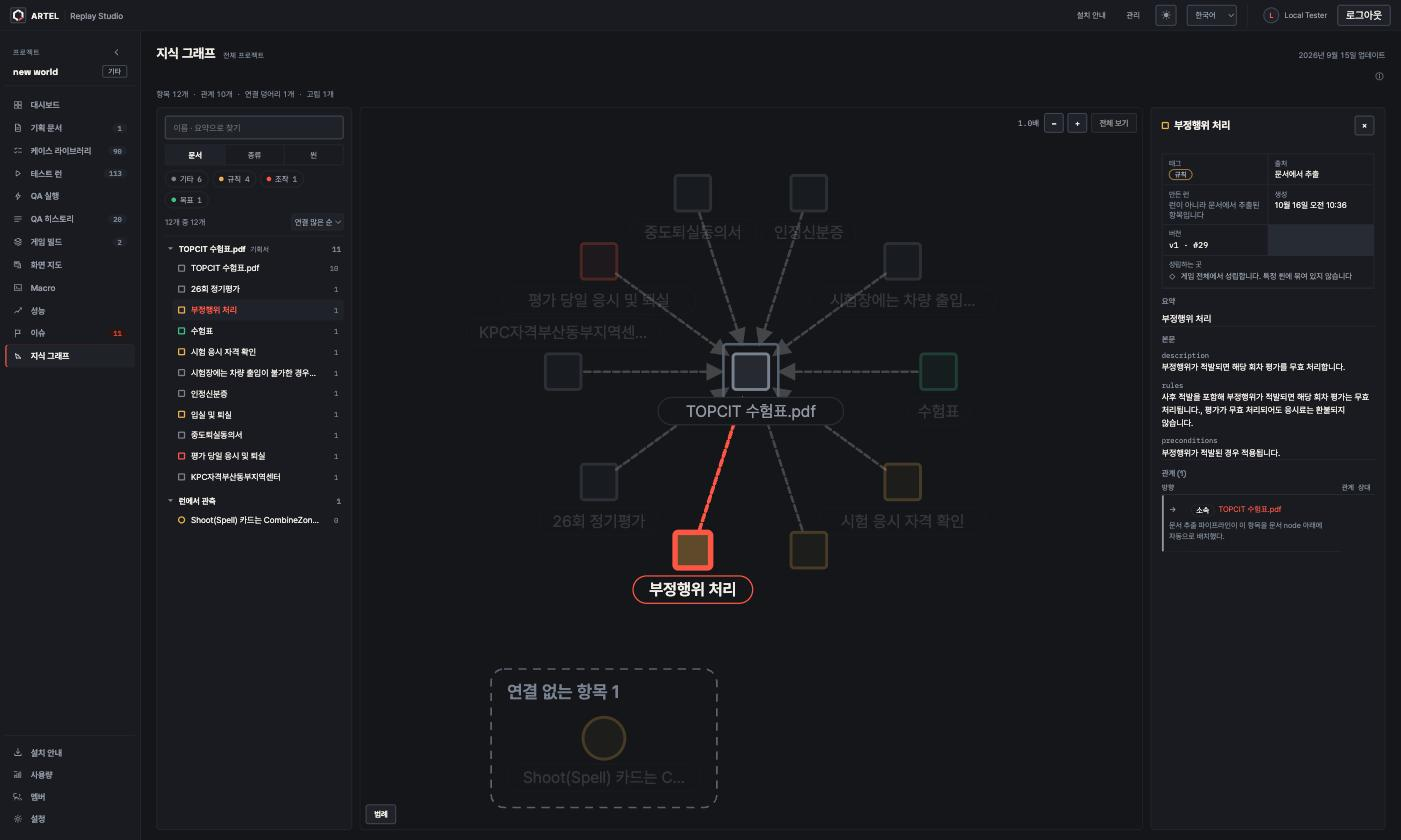
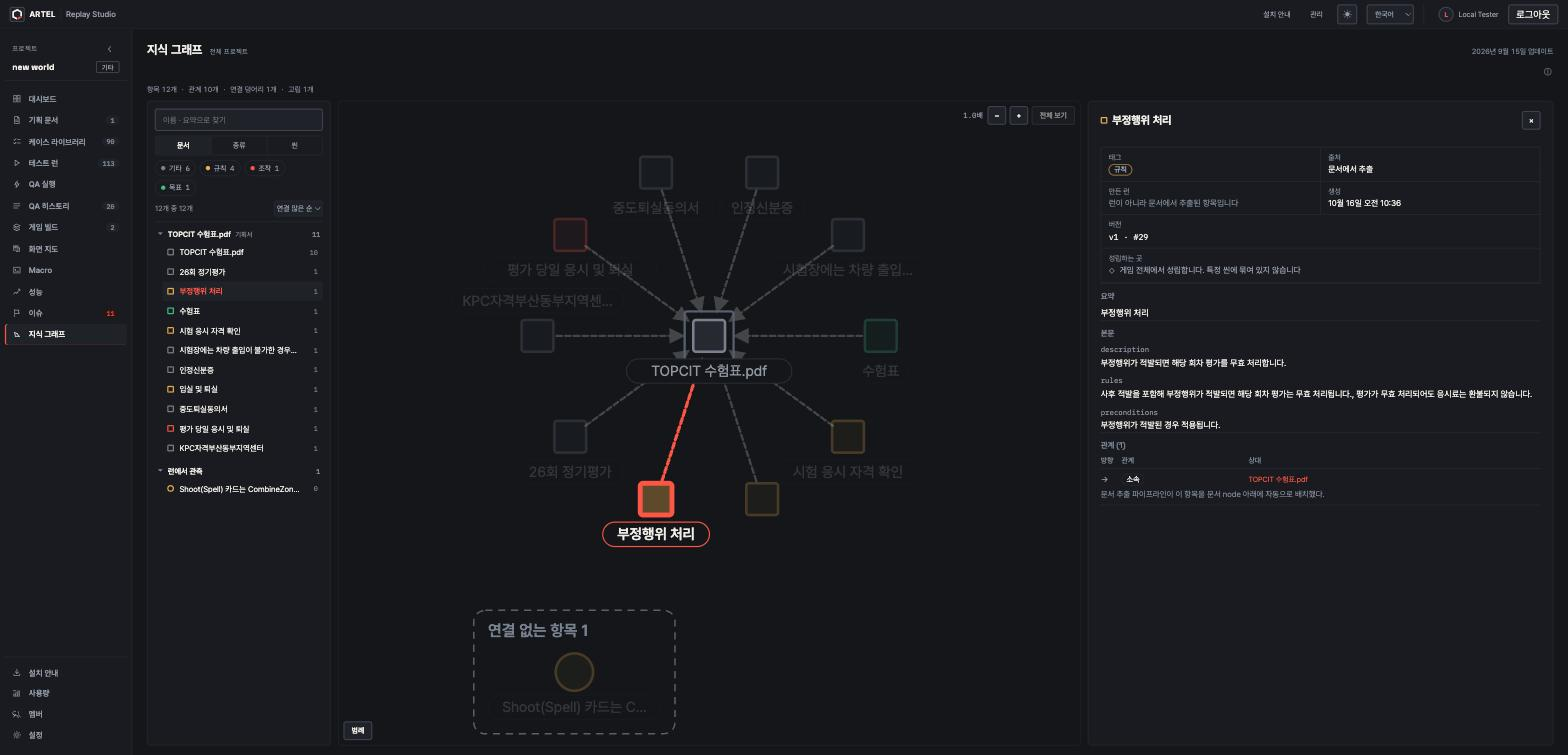
fix(knowledge): 항목을 고르면 오른쪽 상세 칸을 넓히고 글자를 키운다
상세가 360px 칸에 11~12px 글자라 작게 보였다. 고르면 칸이 창 폭의 약 1/3(460~760px)로 넓어지고, 고른 것이
없을 때 개요는 그대로 360px 다. 요약 14.5px · 본문 14px · 사실 표 13.5px · 관계 표 13.5px 로 한 단계씩 키운다.

ARTEL-1190

diff --git a/src/knowledge/knowledge.css b/src/knowledge/knowledge.css
@@ -14,6 +14,7 @@
 .kg-workspace {
   display: grid;
   grid-template-columns: 300px minmax(0, 1fr) 360px;
+  transition: grid-template-columns 180ms var(--ease-standard);
   gap: var(--space-3);
   align-items: stretch;
   height: 680px;
@@ -22,6 +23,16 @@
   min-width: 0;
   min-height: 0;
   margin: 0;
+}
+
+/* 상세는 넓게: 창 폭의 약 1/3, 460~760px. */
+.kg-workspace.has-selection {
+  grid-template-columns: 300px minmax(0, 1fr) clamp(460px, 34vw, 760px);
+}
+@media (prefers-reduced-motion: reduce) {
+  .kg-workspace {
+    transition: none;
+  }
 }
 
 /* ── 창 높이에 맞춤(프로젝트 화면) ─────────────────────────────── */
@@ -51,7 +62,8 @@
 
 /* 좁은 창: 그래프가 위, 탐색기 · 상세가 아래로 쌓인다. */
 @media (max-width: 1180px) {
-  .kg-workspace {
+  .kg-workspace,
+  .kg-workspace.has-selection {
     grid-template-columns: minmax(0, 1fr);
     height: auto;
   }
@@ -425,7 +437,7 @@
   flex: 1;
   min-height: 0;
   overflow-y: auto;
-  padding: var(--space-3) var(--space-4);
+  padding: var(--space-4) var(--space-5);
   scrollbar-width: none;
 }
 .kg-inspector-scroll::-webkit-scrollbar {
@@ -447,8 +459,8 @@
   flex: 1;
   min-width: 0;
   margin: 0;
-  font-size: 16px;
-  line-height: 22px;
+  font-size: 18px;
+  line-height: 26px;
   overflow-wrap: anywhere;
 }
 .kg-side-close {
@@ -462,7 +474,7 @@
 .kg-side-section h3 {
   margin: 0 0 var(--space-2);
   color: var(--color-text-muted);
-  font-size: 12px;
+  font-size: 13px;
   font-weight: 600;
 }
 .kg-side-section .kg-inspector-hint {
@@ -485,9 +497,9 @@
 .kg-facts > div {
   display: flex;
   flex-direction: column;
-  gap: 3px;
+  gap: 4px;
   min-width: 0;
-  padding: 7px 10px;
+  padding: 9px 12px;
   background: var(--color-bg-surface);
 }
 .kg-facts .kg-facts-wide {
@@ -495,7 +507,7 @@
 }
 .kg-facts dt {
   color: var(--color-text-muted);
-  font-size: 11px;
+  font-size: 12px;
 }
 .kg-facts dd {
   display: flex;
@@ -503,7 +515,7 @@
   align-items: center;
   gap: 6px;
   margin: 0;
-  font-size: 12.5px;
+  font-size: 13.5px;
   overflow-wrap: anywhere;
 }
 .kg-facts-note {
@@ -512,7 +524,12 @@
 }
 .kg-detail-summary {
   margin: 0;
-  line-height: 1.55;
+  font-size: 14.5px;
+  line-height: 1.6;
+}
+.kg-inspector .kg-detail-body {
+  font-size: 14px;
+  line-height: 1.65;
 }
 .kg-detail-body--fields {
   display: flex;
@@ -522,29 +539,29 @@
 }
 .kg-detail-body--fields p {
   margin: 0;
-  line-height: 1.55;
+  line-height: 1.65;
   white-space: pre-wrap;
 }
 .kg-body-key {
   color: var(--color-text-secondary);
-  font-size: 11px;
+  font-size: 12px;
 }
 
 .kg-relations {
   width: 100%;
   border-collapse: collapse;
-  font-size: 12px;
+  font-size: 13.5px;
 }
 .kg-relations th {
-  padding: 0 6px 4px 0;
+  padding: 0 8px 6px 0;
   border-bottom: 1px solid var(--color-border-subtle);
   color: var(--color-text-muted);
-  font-size: 11px;
+  font-size: 12px;
   font-weight: 500;
   text-align: left;
 }
 .kg-relations td {
-  padding: 6px 6px 3px 0;
+  padding: 8px 8px 4px 0;
   vertical-align: top;
 }
 .kg-relations tbody {
@@ -561,16 +578,16 @@
   background: transparent;
   color: var(--color-text-primary);
   font: inherit;
-  font-size: 11.5px;
+  font-size: 12.5px;
   cursor: pointer;
 }
 .kg-relation-name:hover {
   border-color: var(--color-action-primary);
 }
 .kg-relation-note td {
-  padding: 0 0 6px;
+  padding: 0 0 8px;
   color: var(--color-text-muted);
-  font-size: 11.5px;
+  font-size: 13px;
   line-height: 1.5;
 }
 
@@ -683,4 +700,13 @@
   .kg-group-chevron {
     transition: none;
   }
+}
+
+/* 사실 표 안의 앵커 · 종류 칩도 표와 같은 크기로 */
+.kg-facts .kg-anchor,
+.kg-facts .kg-anchor-list {
+  font-size: 13.5px;
+}
+.kg-facts .kg-tag {
+  font-size: 12px;
 }

diff --git a/src/knowledge/KnowledgeGraphPage.tsx b/src/knowledge/KnowledgeGraphPage.tsx
@@ -218,7 +218,8 @@ function KnowledgeGraphView({
         )}
       </p>
 
-      <div className="kg-workspace">
+      {/* 고르면 오른쪽 상세 칸이 넓어진다(ARTEL-1190). 개요는 좁은 칸으로 충분하고, 상세는 읽을 글이 많다. */}
+      <div className={`kg-workspace${selection === null ? '' : ' has-selection'}`}>
         <aside className="panel kg-explorer-panel">
           <KnowledgeExplorer
             edges={graph.edges}
